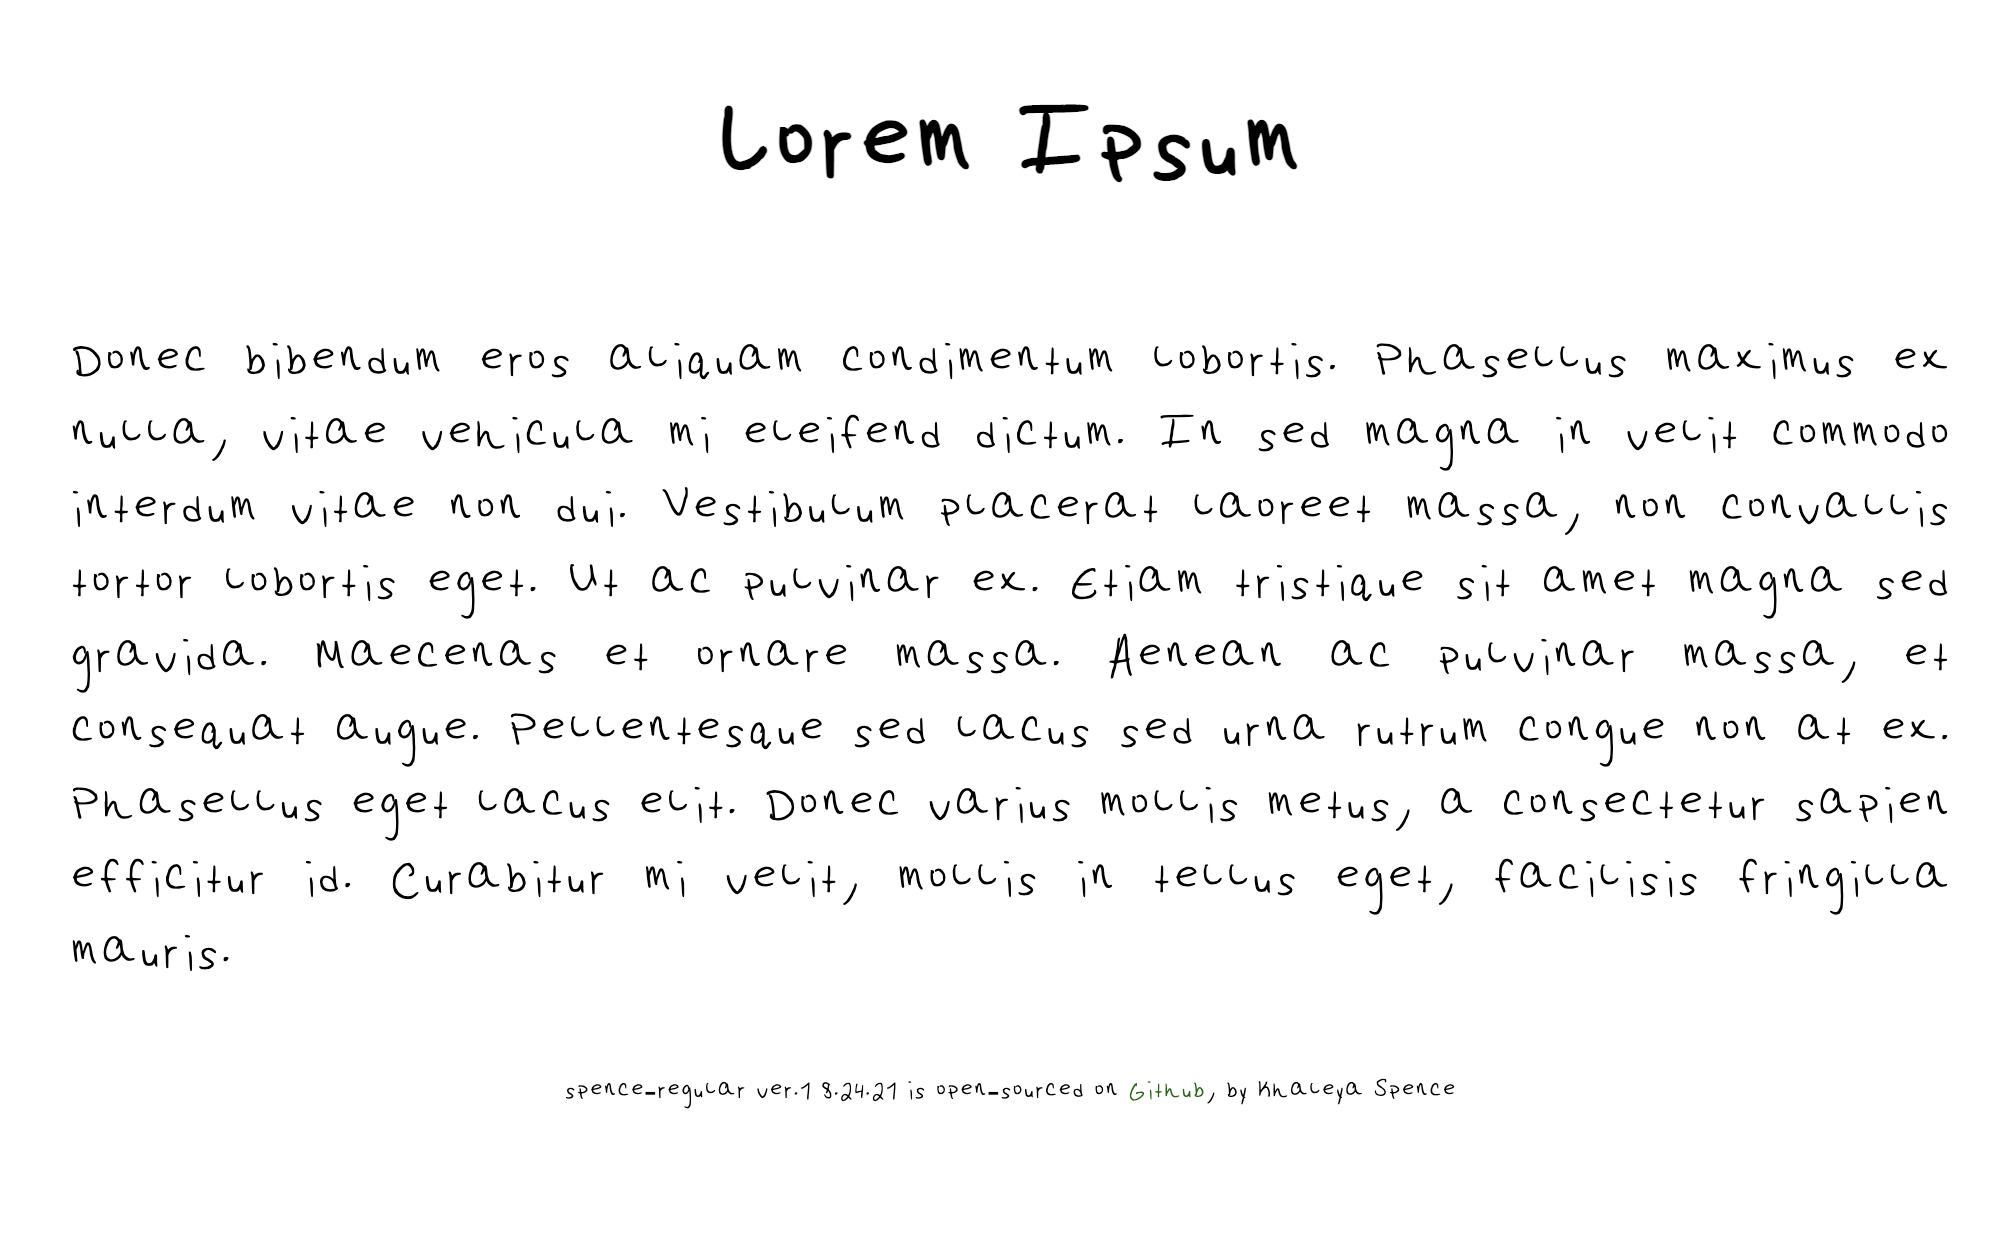
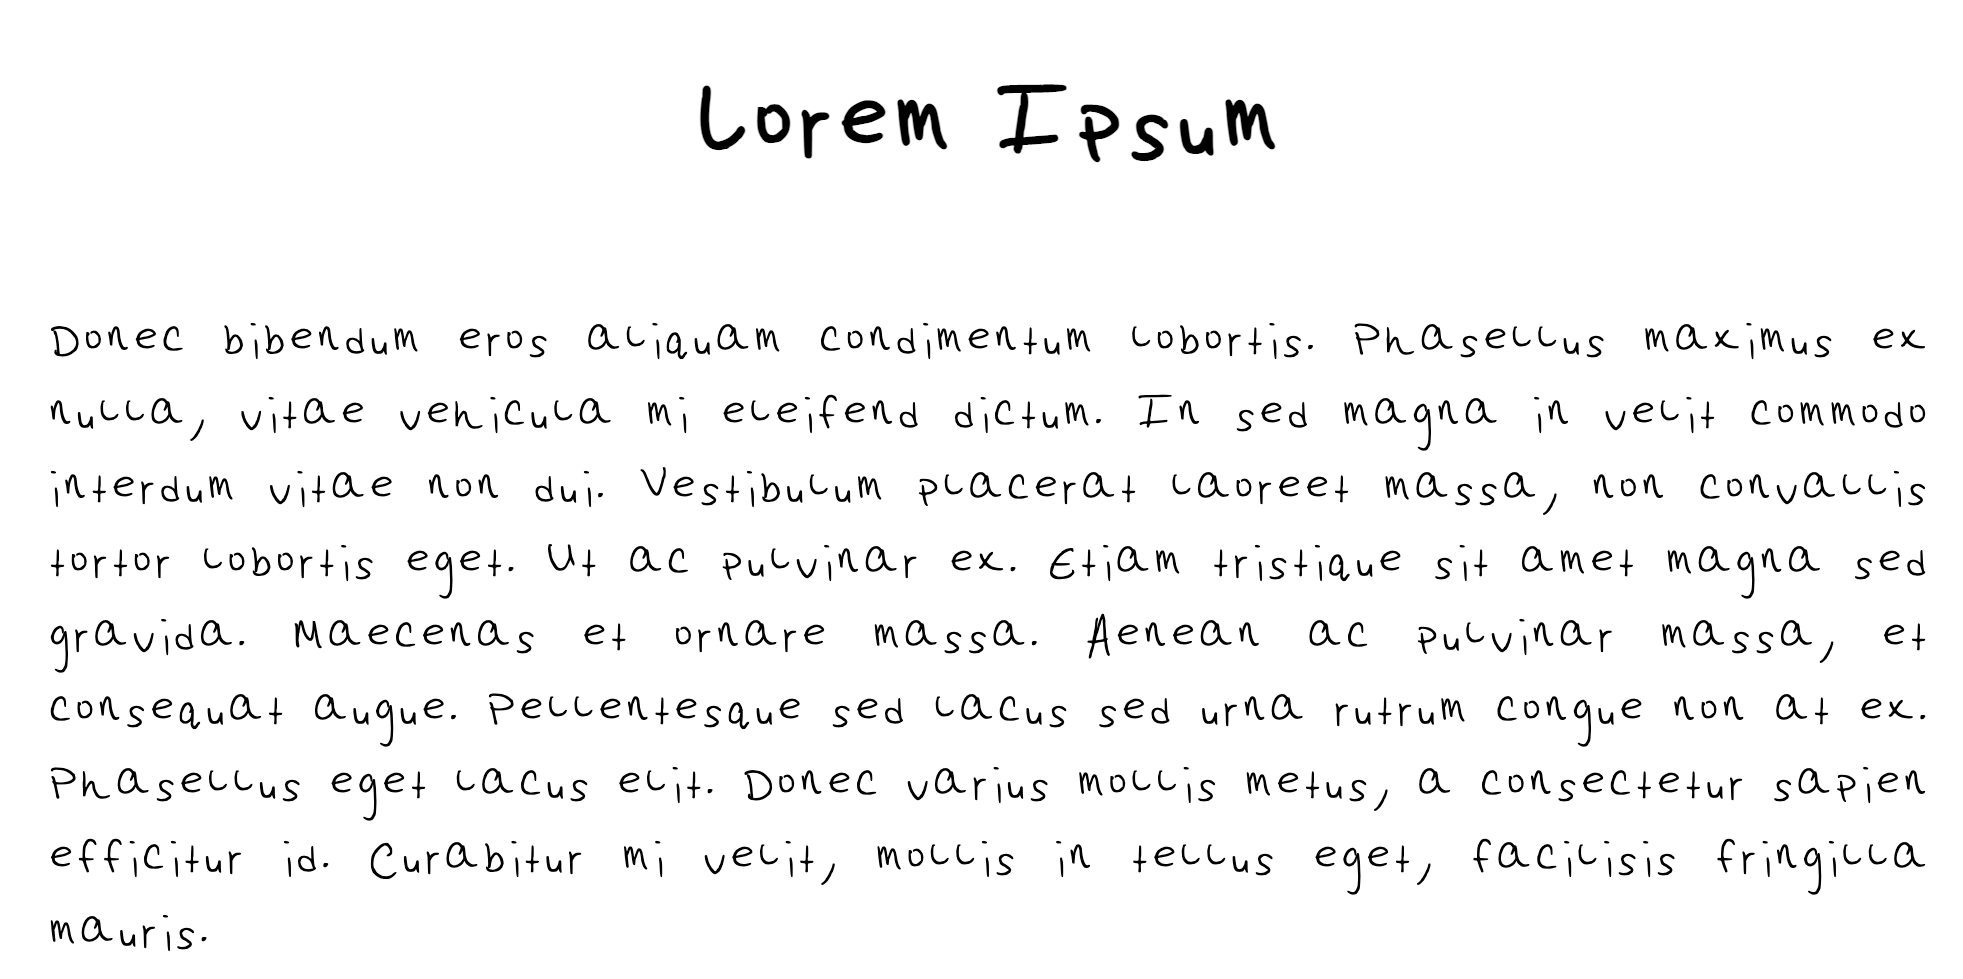
added bootstrap css, added links
Used bootstrap css instead of regular  replaced  font text with img just in case of any error, added github and download link. imported fontawesome

diff --git a/index.html b/index.html
@@ -4,6 +4,7 @@
     <meta charset="UTF-8">
     <meta http-equiv="X-UA-Compatible" content="IE=edge">
     <meta name="viewport" content="width=device-width, initial-scale=1.0">
+    <script src="https://kit.fontawesome.com/e2fd742853.js" crossorigin="anonymous"></script>
     <link href="https://cdn.jsdelivr.net/npm/bootstrap@5.1.1/dist/css/bootstrap.min.css" rel="stylesheet" integrity="sha384-F3w7mX95PdgyTmZZMECAngseQB83DfGTowi0iMjiWaeVhAn4FJkqJByhZMI3AhiU" crossorigin="anonymous">
 
   <link rel="stylesheet"  type="text/css" href="src/stylesheet.css">
@@ -11,6 +12,19 @@
 </head>
 <body>
 
-   <img src="/img/font.png" alt="font" class="img-fluid">
+   <img src="/img/font.png" alt="font" class="img-fluid px-4 py-4">
+   <br />
+   <br />
+   <br />
+   <div class="container"> 
+       <div class="row">
+<div class="col-6 text-center">
+   <a  class="link-dark" href="/myfont/SpenceBody-Regular.otf" download><i class="fas fa-download"></i></a>
+</div>
+<div class="col-6 text-center">
+   <a class="link-dark" href="https://github.com/kkspence/Spence-font"><i class="fab fa-github"></i></a>
+   </div>
+</div>
+   </div>
 </body>
 </html>
